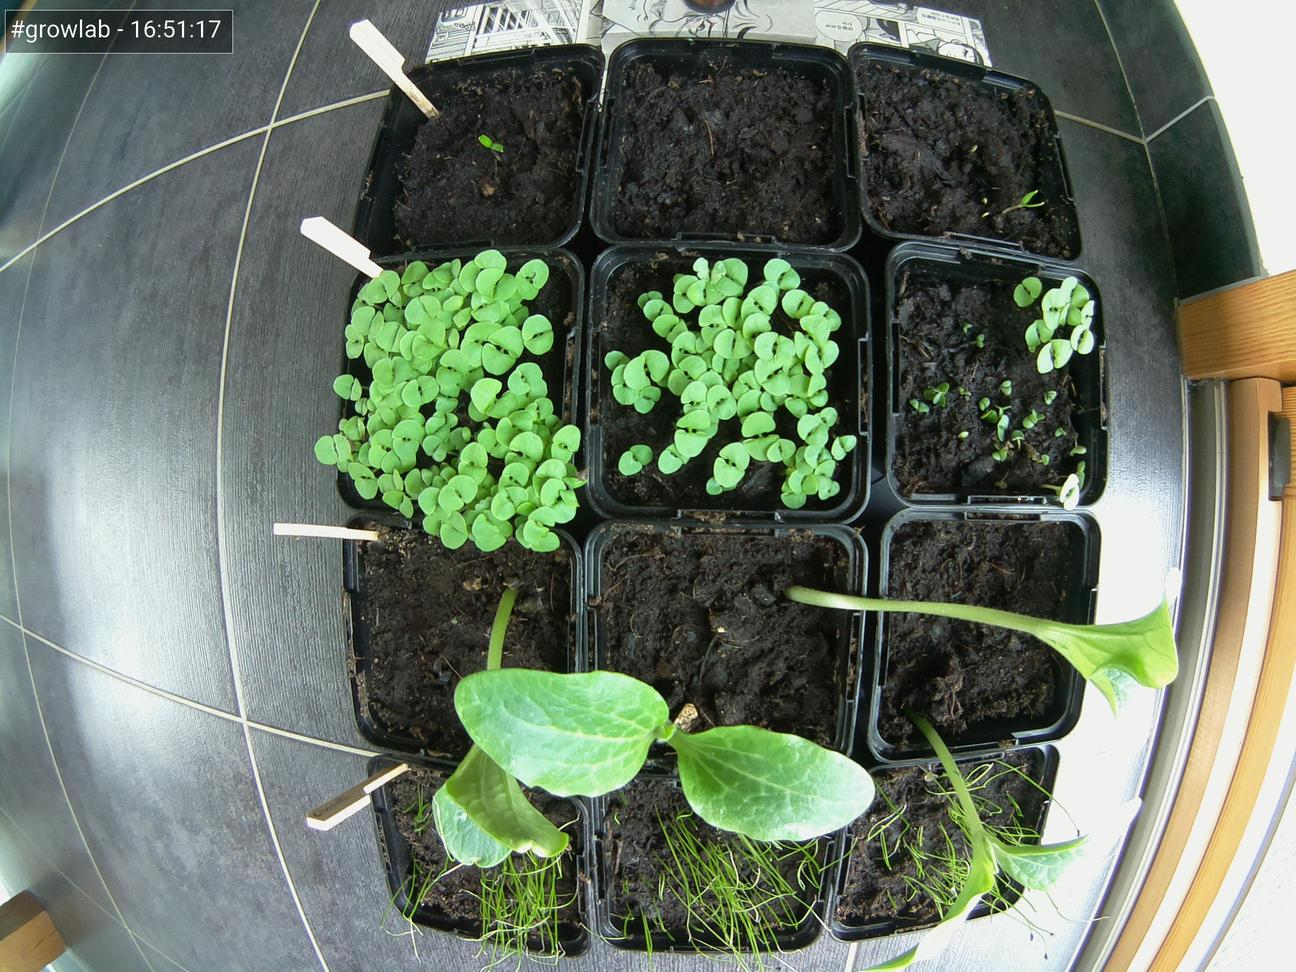
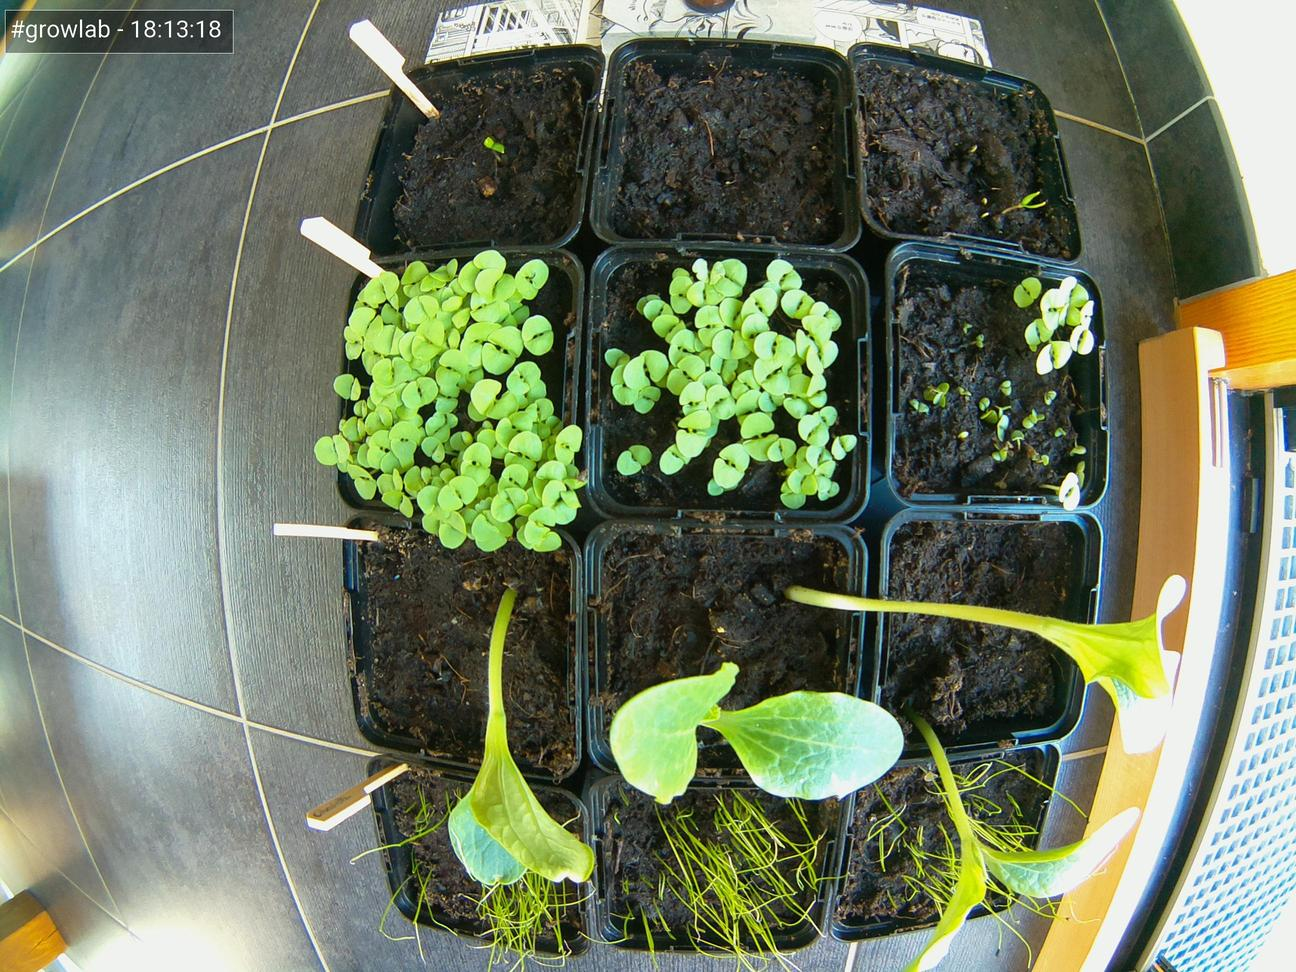
Update images at Thu 27 May 18:13:27 CEST 2021

diff --git a/index.html b/index.html
@@ -47,7 +47,7 @@
                         <tbody>
                             <tr>
                                 <td>Time</td>
-                                <td>16:51:17</td>
+                                <td>18:13:18</td>
                             </tr>
                             <tr>
                                 <td>Temperature</td>
@@ -67,7 +67,7 @@
 
                 <h5>Latest image</h5>
                 <div style="width: 85%;">
-                            <img class="figure-img img-fluid rounded" src="./preview.jpg?uid=1622127086.393346">
+                            <img class="figure-img img-fluid rounded" src="./preview.jpg?uid=1622132007.3140697">
                 </div>
             </div>
         </div>
